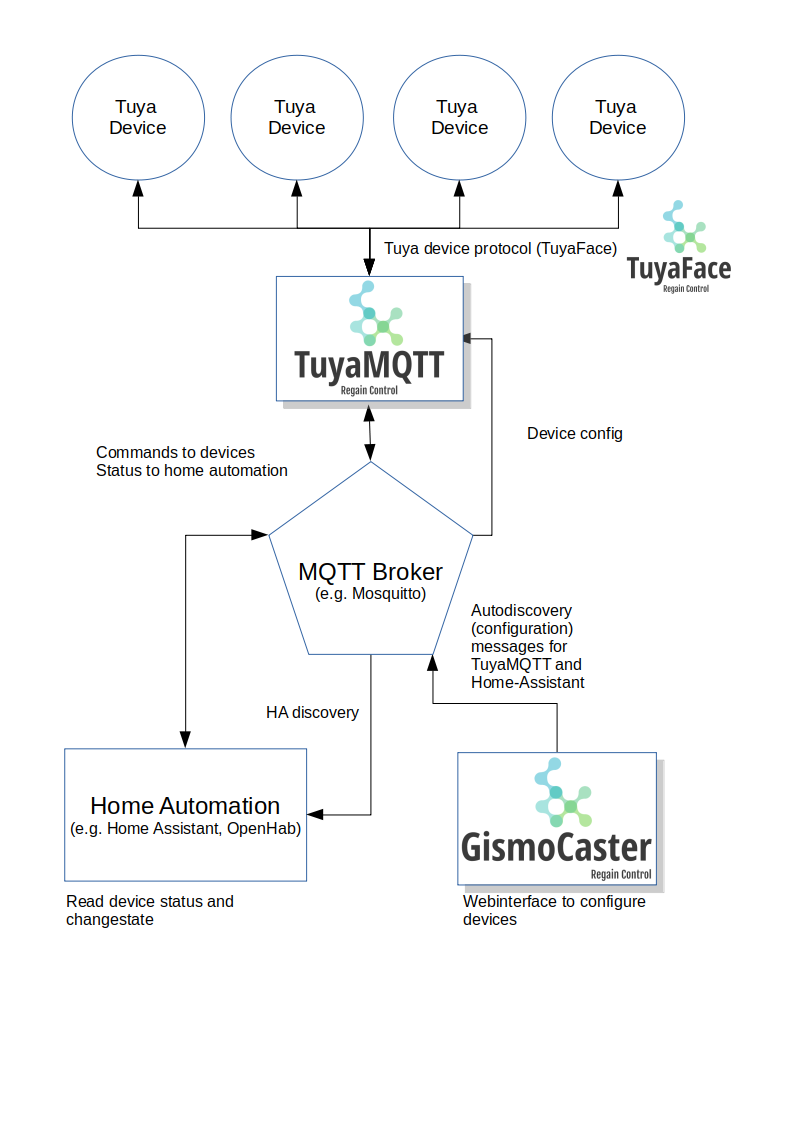
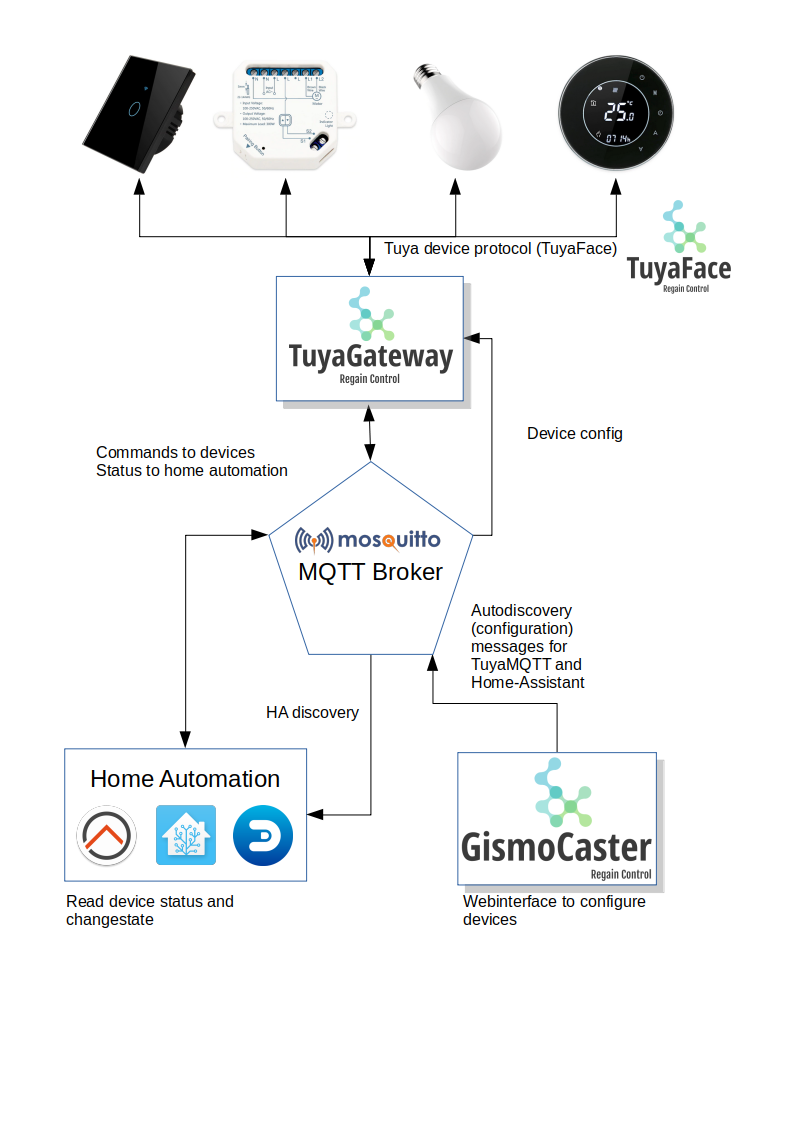
readme

diff --git a/README.md b/README.md
@@ -1,16 +1,20 @@
-<p align="center"><img width="50%" alt="TuyaMQTT logo" src="https://github.com/TradeFace/tuyamqtt/blob/development/docs/tuyamqtt_logo.png?raw=true"></p>
+<p align="center"><img width="50%" alt="TuyaMQTT logo" src="https://github.com/TradeFace/tuyamqtt/blob/development/docs/tuyagateway_logo.png?raw=true"></p>
 
-Listens on MQTT topic and routes requests to Tuya devices, based on a one to one topic translation in e.g. Home-Assistant config-files. 1:1 topic translation is limited to simple tasks (like switching ON/OFF); only boolean values. 
+The devices you purchase are defacto your property. You should be able to fully control all aspects of it, without a man in the middle. Be it just flicking a switch or reading data from it. The man in the middle might be benign now, but can you really trust a commercial company with your personal data? Regain control over what is rightfully yours.
 
-TuyaMQTT uses [TuyaFace](https://github.com/TradeFace/tuya) to communicate locally (no cloud connection needed) with your tuya devices.
+We've made a library that communicates locally with your Tuya devices (no internet connection needed), called [TuyaFace](https://github.com/TradeFace/tuya). The library is open-source and can be used in your own software if you choose to do so. But we did the heavylifting already for you. TuyaGateway implements the library and communitates over an open protocol (MQTT). All relevant home automation software packages (e.g. Home Assistant) are able to work with MQTT. 
 
-In v1.1 Tuya device configuration can be done with [GismoCaster](https://github.com/TradeFace/gismocaster). In which you can set discovery messages for both TuyaMQTT and Home Assistant and opens up the ability to set boolean/integer/float/string types. 
-
-The goal for version v1.2 is to add input/output processing functions and to improve on HA message values.  
-
+Great! But what about GismoCaster? [GismoCaster](https://github.com/TradeFace/gismocaster) is the control-center for TuyaGateway. In a webinterface you can add your devices, set names for them, etc. So, no programming required and no dabbing around in obscure text files which will break when you add a tab to many.
 
 <p align="center"><img alt="Network" src="https://github.com/TradeFace/tuyamqtt/blob/development/docs/network_bg.png?raw=true"></p>
 
+A bit more technical
+----------
+TuyaGateway listens on MQTT topics and routes requests to your Tuya devices. In earlier versions the configuration was based on a one to one topic translation in e.g. Home-Assistant config-files. 1:1 topic translation is limited to simple tasks (like switching ON/OFF); only boolean values. 
+
+From v1.1 onwards Tuya device configuration can be done with [GismoCaster](https://github.com/TradeFace/gismocaster). In which you can set discovery messages for both TuyaGateway and Home Assistant and opens up the ability to set boolean/integer/float/string types. 
+
+The goal for version v1.2 is to add input/output processing functions and to improve on HA message values. Next to structural improvements to the code. 
 
 
 [Docs](https://github.com/TradeFace/tuyamqtt/wiki)
@@ -19,9 +23,7 @@ https://github.com/TradeFace/tuyamqtt/wiki
 
 Get involved!
 ================
-Anyone who is willing to test, write code, add documentation, etc. is welcome to make a [contribution](https://github.com/TradeFace/tuyamqtt/CONTRIBUTING.md). 
-
-
+Anyone who is willing to test, write code, add documentation, etc. is welcome to make a [contribution](https://github.com/TradeFace/tuyamqtt/blob/CONTRIBUTING.md). 
 
 
 Acknowledgements
